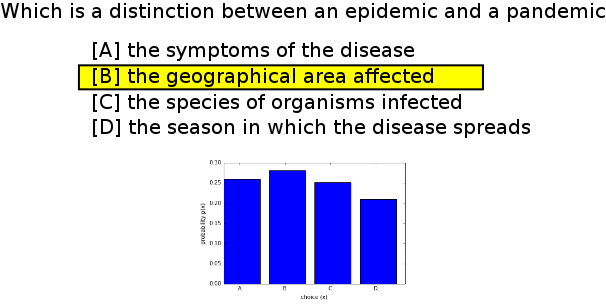
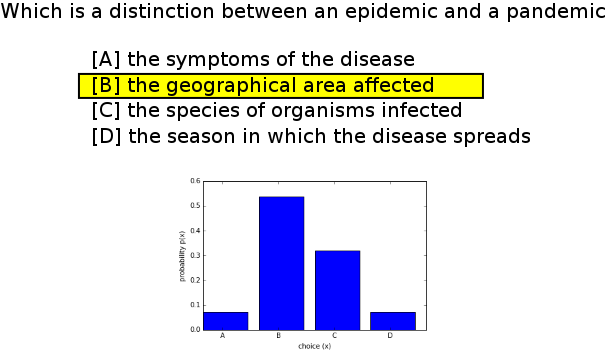
Rerun deploy-model with best model, update bar chart and PPTX.

Changed region(s): [[0.1188, 0.1184, 0.8911, 0.4441], [0.297, 0.5033, 0.7129, 1.0], [0.0, 0.0, 1.0, 0.0592]]

diff --git a/src/deploy-model.py b/src/deploy-model.py
@@ -10,11 +10,14 @@ import os
 import kaggle
 
 MODEL_DIR = "../data/models"
-MODEL_ARCH = "qa-lstm.json"
-MODEL_WEIGHTS = "qa-lstm-model-best.hdf5"
+#MODEL_ARCH = "qa-lstm.json"
+#MODEL_WEIGHTS = "qa-lstm-model-best.hdf5"
+MODEL_ARCH = "qa-lstm-fem-attn.json"
+MODEL_WEIGHTS = "qa-lstm-fem-attn-final.h5"
 
 DATA_DIR = "../data/comp_data"
 QA_TRAIN_FILE = "8thGr-NDMC-Train.csv"
+QA_TEST_FILE = "8thGr-NDMC-Test.csv"
 
 WORD2VEC_BIN = "GoogleNews-vectors-negative300.bin.gz"
 WORD2VEC_EMBED_SIZE = 300
@@ -25,7 +28,10 @@ NUM_CHOICES = 4   # number of choices for multiple choice
 #### Load up the vectorizer
 qapairs = kaggle.get_question_answer_pairs(
     os.path.join(DATA_DIR, QA_TRAIN_FILE))
-word2idx = kaggle.build_vocab([], qapairs, [])
+tqapairs = kaggle.get_question_answer_pairs(
+    os.path.join(DATA_DIR, QA_TEST_FILE), is_test=True)
+
+word2idx = kaggle.build_vocab([], qapairs, tqapairs)
 vocab_size = len(word2idx) + 1 # include mask character 0
 
 #### Load up the model
@@ -58,6 +64,8 @@ Y = model.predict([Xq, Xa])
 # calculate the softmax
 probs = np.exp(1.0 - (Y[:, 1] - Y[:, 0]))
 probs = probs / np.sum(probs)
+
+print(probs)
 
 plt.bar(np.arange(len(probs)), probs)
 plt.xticks(np.arange(len(probs))+0.35, ["A", "B", "C", "D"])
